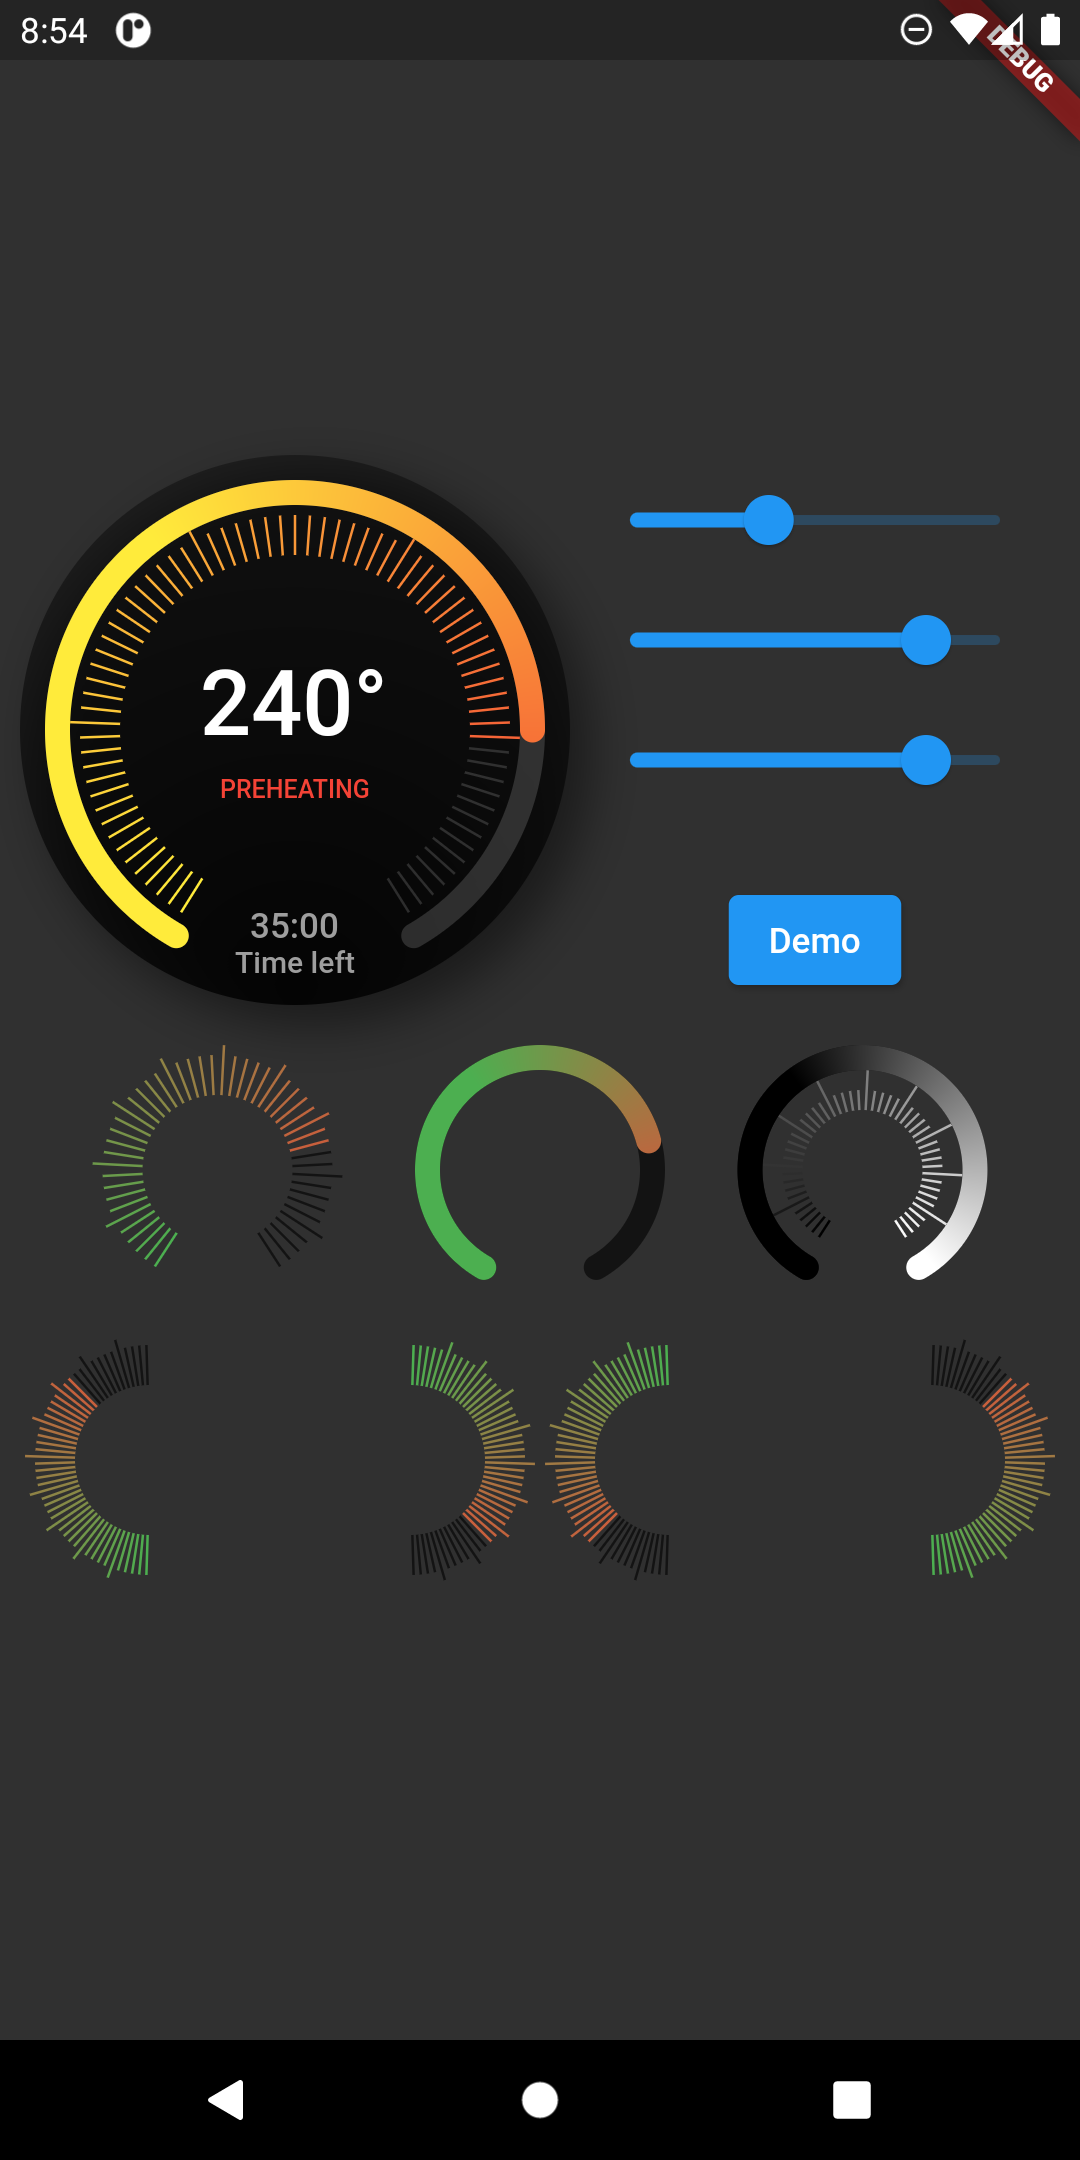
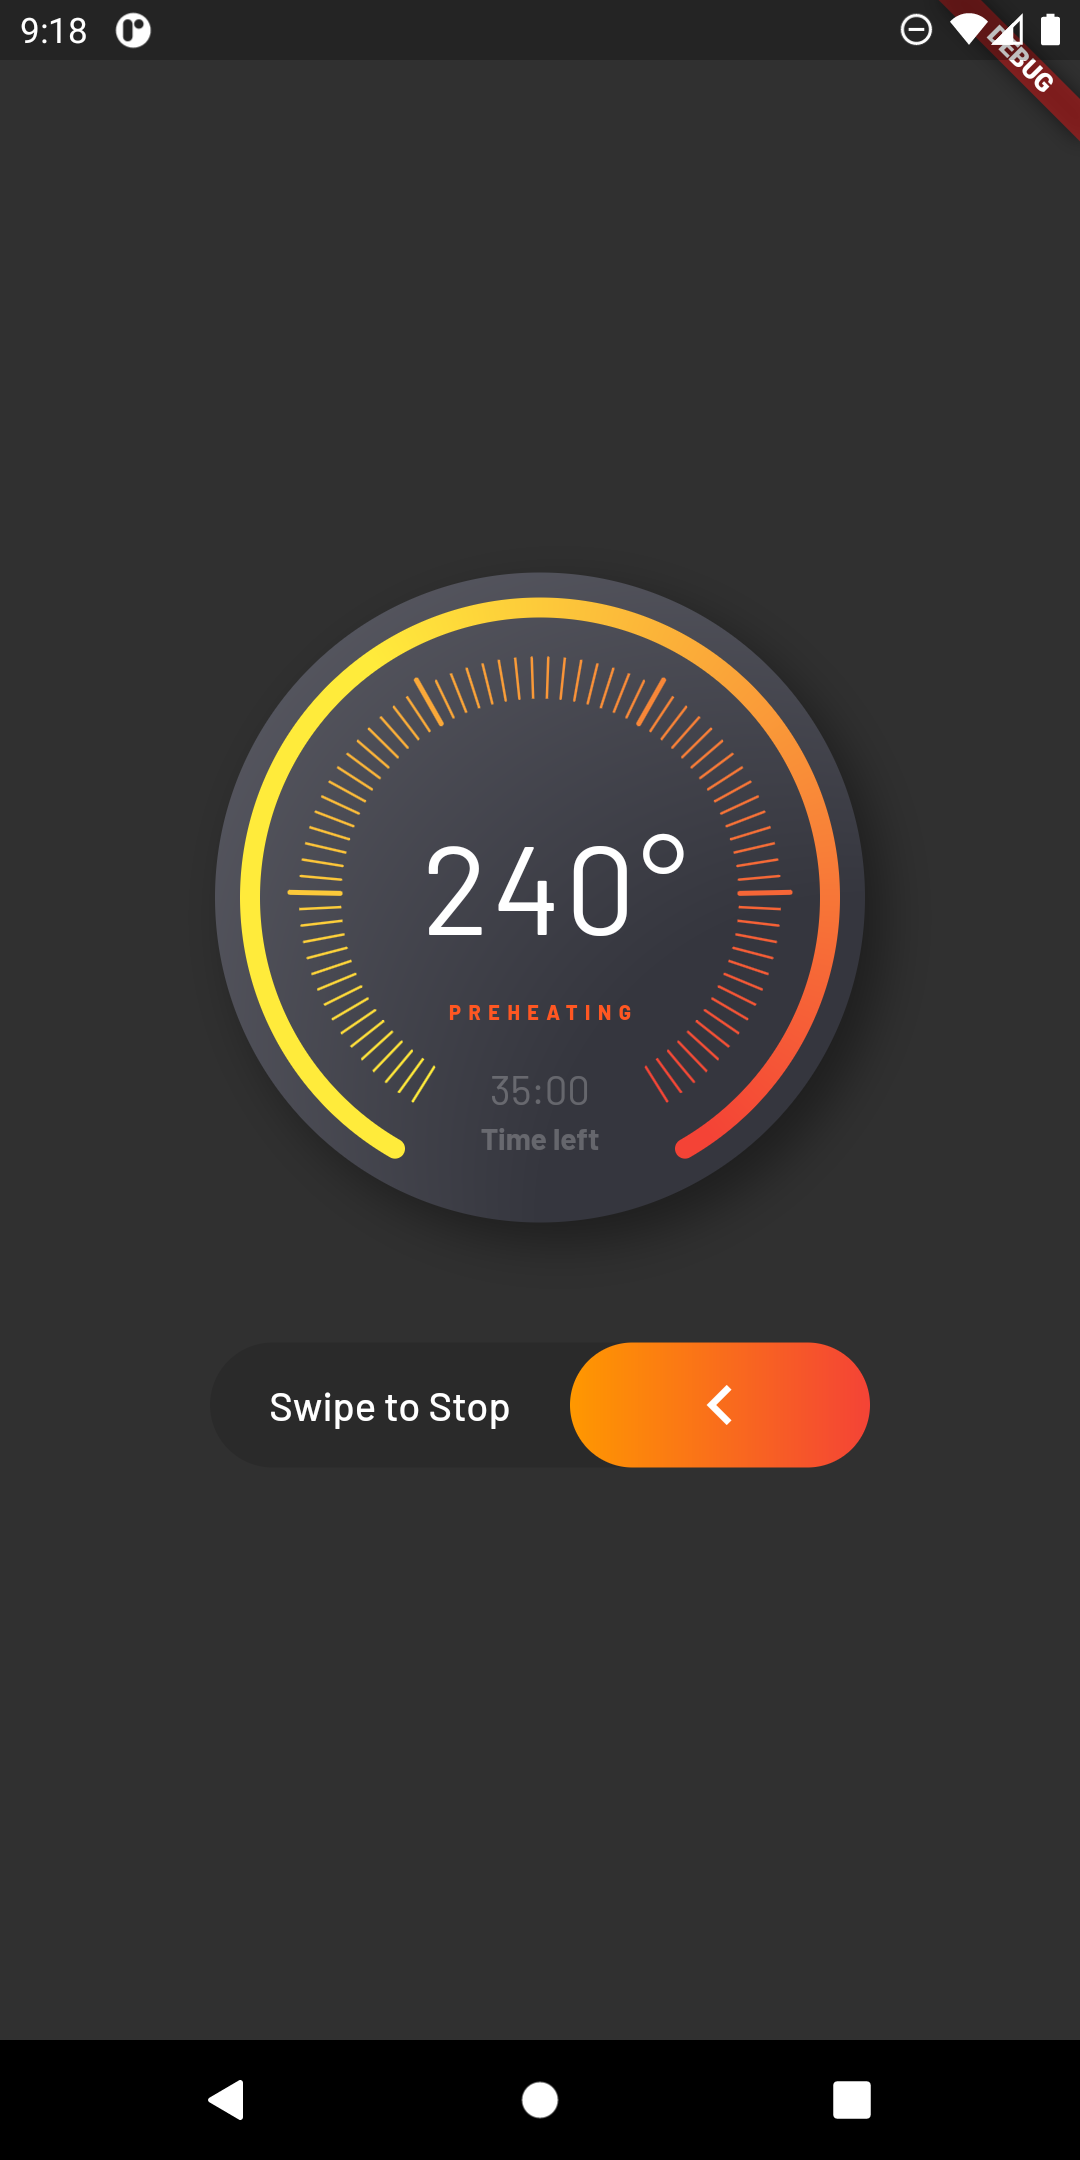
* Bunch of parameters added. * Examples improved.

diff --git a/lib/src/widget.dart b/lib/src/widget.dart
@@ -13,11 +13,12 @@ class AdvancedProgress extends StatelessWidget {
     this.maxDegrees = 300.0,
     this.progressGap = 0.0,
     this.division = 10,
-    @required this.levelAmount,
+    this.levelAmount,
     this.levelLowWidth = 1.0,
     this.levelLowHeight = 8.0,
     this.levelHighWidth = 2.0,
     this.levelHighHeight = 16.0,
+    this.levelHighBeginEnd = false,
     this.primaryColor,
     this.secondaryColor,
     this.tertiaryColor,
@@ -51,17 +52,20 @@ class AdvancedProgress extends StatelessWidget {
   /// Amount of levels on primary progress.
   final int levelAmount;
 
-  /// Width of low levels on primary progress.
+  /// Width of levels on primary progress.
   final double levelLowWidth;
 
   /// Height of low levels on primary progress.
   final double levelLowHeight;
 
-  /// Width of high levels on primary progress.
-  final double levelHighWidth;
-
   /// Height of high levels managed by [division] on primary progress.
   final double levelHighHeight;
+
+  /// Width of levels on primary progress.
+  final double levelHighWidth;
+
+  /// True if need to begin and end with high level.
+  final bool levelHighBeginEnd;
 
   /// Primary color that used as a color for progress of first in gradient.
   /// User for primary and secondary progress.
@@ -104,6 +108,7 @@ class AdvancedProgress extends StatelessWidget {
           levelLowHeight: levelLowHeight,
           levelHighWidth: levelHighWidth,
           levelHighHeight: levelHighHeight,
+          levelHighBeginEnd: levelHighBeginEnd,
           primaryColor: primaryColor ?? theme.indicatorColor,
           secondaryColor: secondaryColor ?? primaryColor,
           tertiaryColor: tertiaryColor ?? theme.hintColor,

diff --git a/example/lib/pages/smart_oven.dart b/example/lib/pages/smart_oven.dart
@@ -64,7 +64,7 @@ class _SmartOverPageState extends State<SmartOverPage> {
                           top: 16.0,
                         ),
                         child: Text(
-                          '  240°',
+                          ' 240°',
                           textAlign: TextAlign.center,
                           style: TextStyle(
                             letterSpacing: 1.5,
@@ -147,17 +147,13 @@ class _SmartOverPageState extends State<SmartOverPage> {
                   mainAxisSize: MainAxisSize.max,
                   children: [
                     Expanded(
-                      child: Padding(
-                        padding: const EdgeInsets.all(8.0),
-                        child: Text(
-                          'Swipe to Stop',
-                          textAlign: TextAlign.center,
-                          style: TextStyle(
-                            fontFamily: 'Barlow',
-                            fontWeight: FontWeight.w500,
-                            fontSize: 16,
-                            color: Colors.black54,
-                          ),
+                      child: Text(
+                        'Swipe to Stop',
+                        textAlign: TextAlign.center,
+                        style: TextStyle(
+                          fontFamily: 'Barlow',
+                          fontWeight: FontWeight.w500,
+                          fontSize: 16,
                         ),
                       ),
                     ),

diff --git a/lib/src/paint.dart b/lib/src/paint.dart
@@ -19,6 +19,7 @@ class AdvancedProgressPainter extends CustomPainter {
     this.primaryColor,
     this.secondaryColor,
     this.tertiaryColor,
+    this.levelHighBeginEnd,
   });
 
   /// Value for primary progress.
@@ -59,6 +60,9 @@ class AdvancedProgressPainter extends CustomPainter {
 
   /// Width of levels on primary progress.
   final double levelHighWidth;
+
+  /// True if need to begin and end with high level.
+  final bool levelHighBeginEnd;
 
   /// Primary color that used as a color for progress of first in gradient.
   /// User for primary and secondary progress.
@@ -101,6 +105,8 @@ class AdvancedProgressPainter extends CustomPainter {
 
       final isHighLevel =
           division != null && index > 0 && index < levelAmount - 1
+          || (levelHighBeginEnd && index == 0)
+              || (levelHighBeginEnd && index == levelAmount - 1)
               ? index % division == 0
               : false;
 

diff --git a/README.md b/README.md
@@ -12,16 +12,18 @@ An advanced progress widget, that can be fully customized with bunch of properti
 |`primaryValue`|Value for primary progress.|*double*||
 |`secondaryValue`|Value for secondary progress.|*double*||
 |`secondaryWidth`|Secondary progress width.|*double*|10.0|
-|`radius`|Total radius for whole widget.|*double*|required|
+|`radius`|Total radius for whole widget.|*double*||
 |`startAngle`|Progress start angle.|*double*|120.0|
-|`maxDegrees`|Progress degrees from `startAngle`.|*double*|300.0|
+|`maxDegrees`|Progress degrees from [startAngle].|*double*|300.0|
 |`progressGap`|Gap between primary and secondary progress.|*double*|0.0|
 |`division`|Primary progress division.|*int*|10|
-|`levelAmount`|Amount of levels on primary progress.|*int*|required|
-|`levelWidth`|Width of levels on primary progress.|*double*|1.0|
-|`levelLow`|Height of low levels on primary progress.|*double*|8.0|
-|`levelHigh`|Height of high levels managed by `division` on primary progress.|*double*|16.0|
-|`primaryColor`|Primary color that used as a color for progress of first in gradient.|*Color*|theme.indicatorColor|
-|`secondaryColor`|Secondary color that used last in gradient.|*Color*|`primaryColor`|
-|`tertiaryColor`|Tertiary color that used for inactive part of progress.|*Color*|theme.hintColor|
+|`levelAmount`|Amount of levels on primary progress.|*int*||
+|`levelLowWidth`|Width of levels on primary progress.|*double*|1.0|
+|`levelLowHeight`|Height of low levels on primary progress.|*double*|8.0|
+|`levelHighWidth`|Height of high levels managed by [division] on primary progress.|*double*|2.0|
+|`levelHighHeight`|Width of levels on primary progress.|*double*|16.0|
+|`levelHighBeginEnd`|True if need to begin and end with high level.|*bool*|false|
+|`primaryColor`|Primary color that used as a color for progress of first in gradient.|*Color*||
+|`secondaryColor`|Secondary color that used last in gradient.|*Color*||
+|`tertiaryColor`|Tertiary color that used for inactive part of progress.|*Color*||
 |`child`|Child widget.|*Widget*||

diff --git a/CHANGELOG.md b/CHANGELOG.md
@@ -1,3 +1,8 @@
+## 0.0.3
+
+* Bunch of parameters added.
+* Examples improved.
+
 ## 0.0.2
 
 * Documentation improvements.
